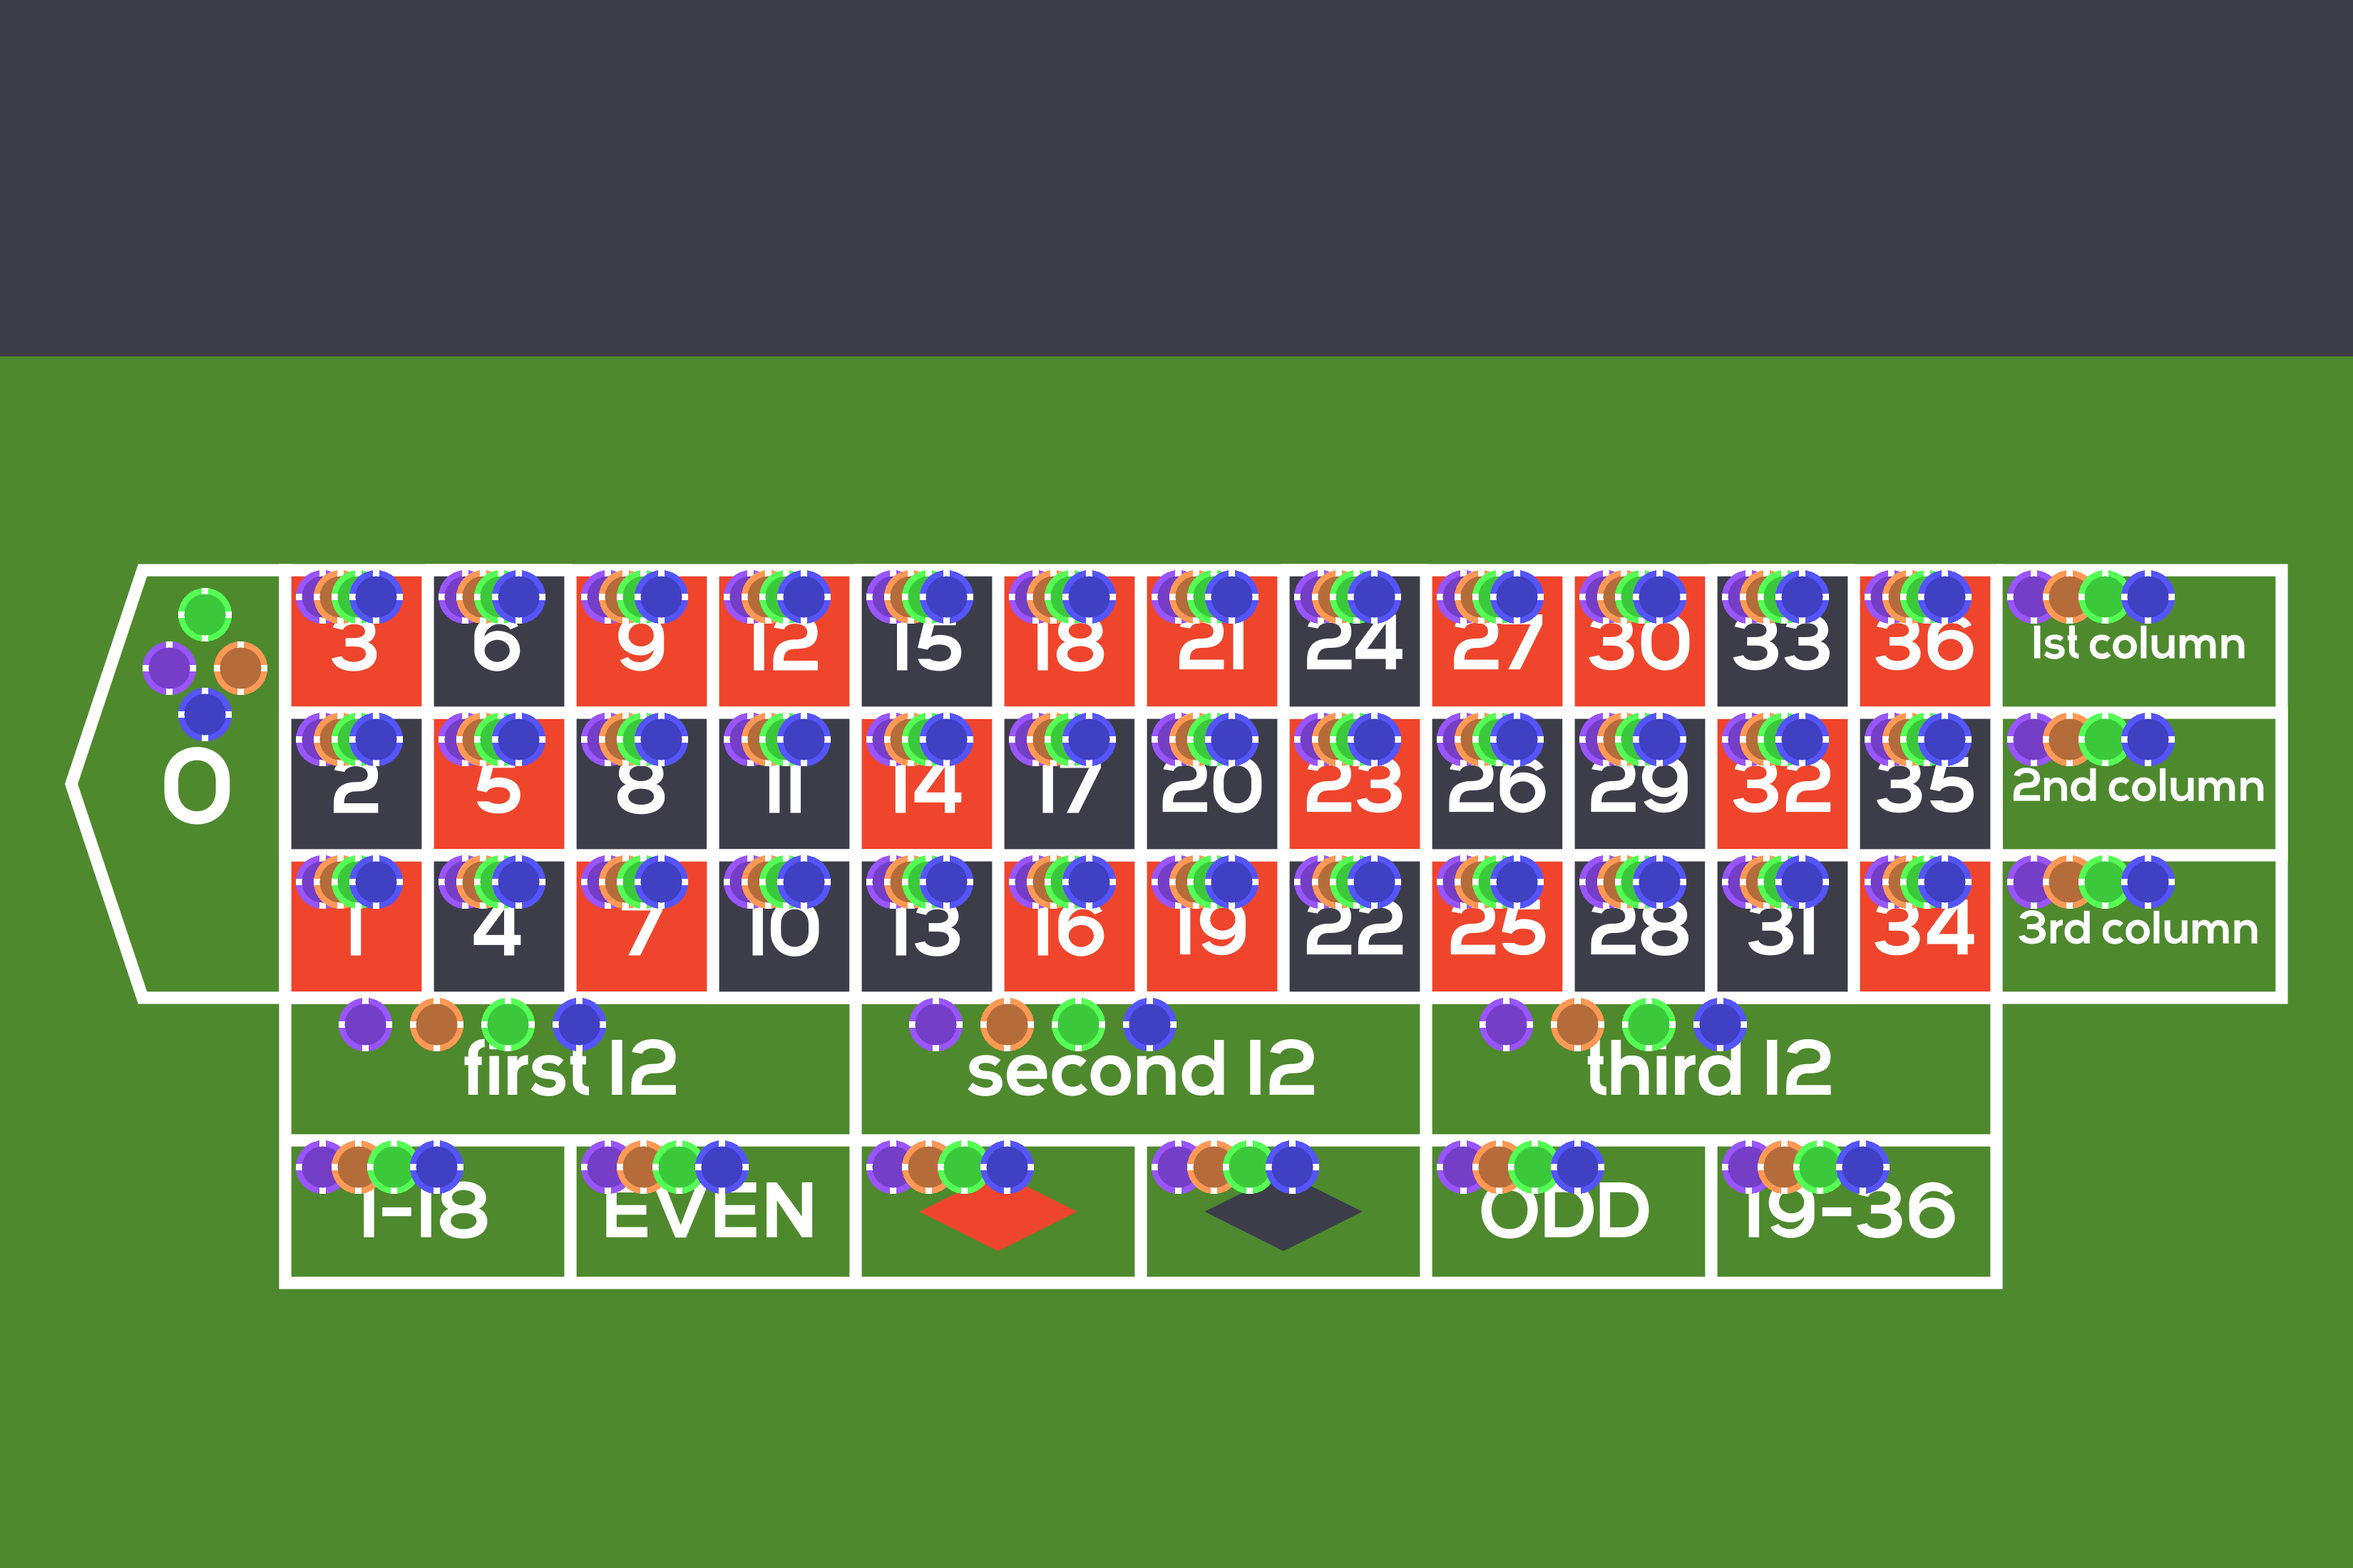
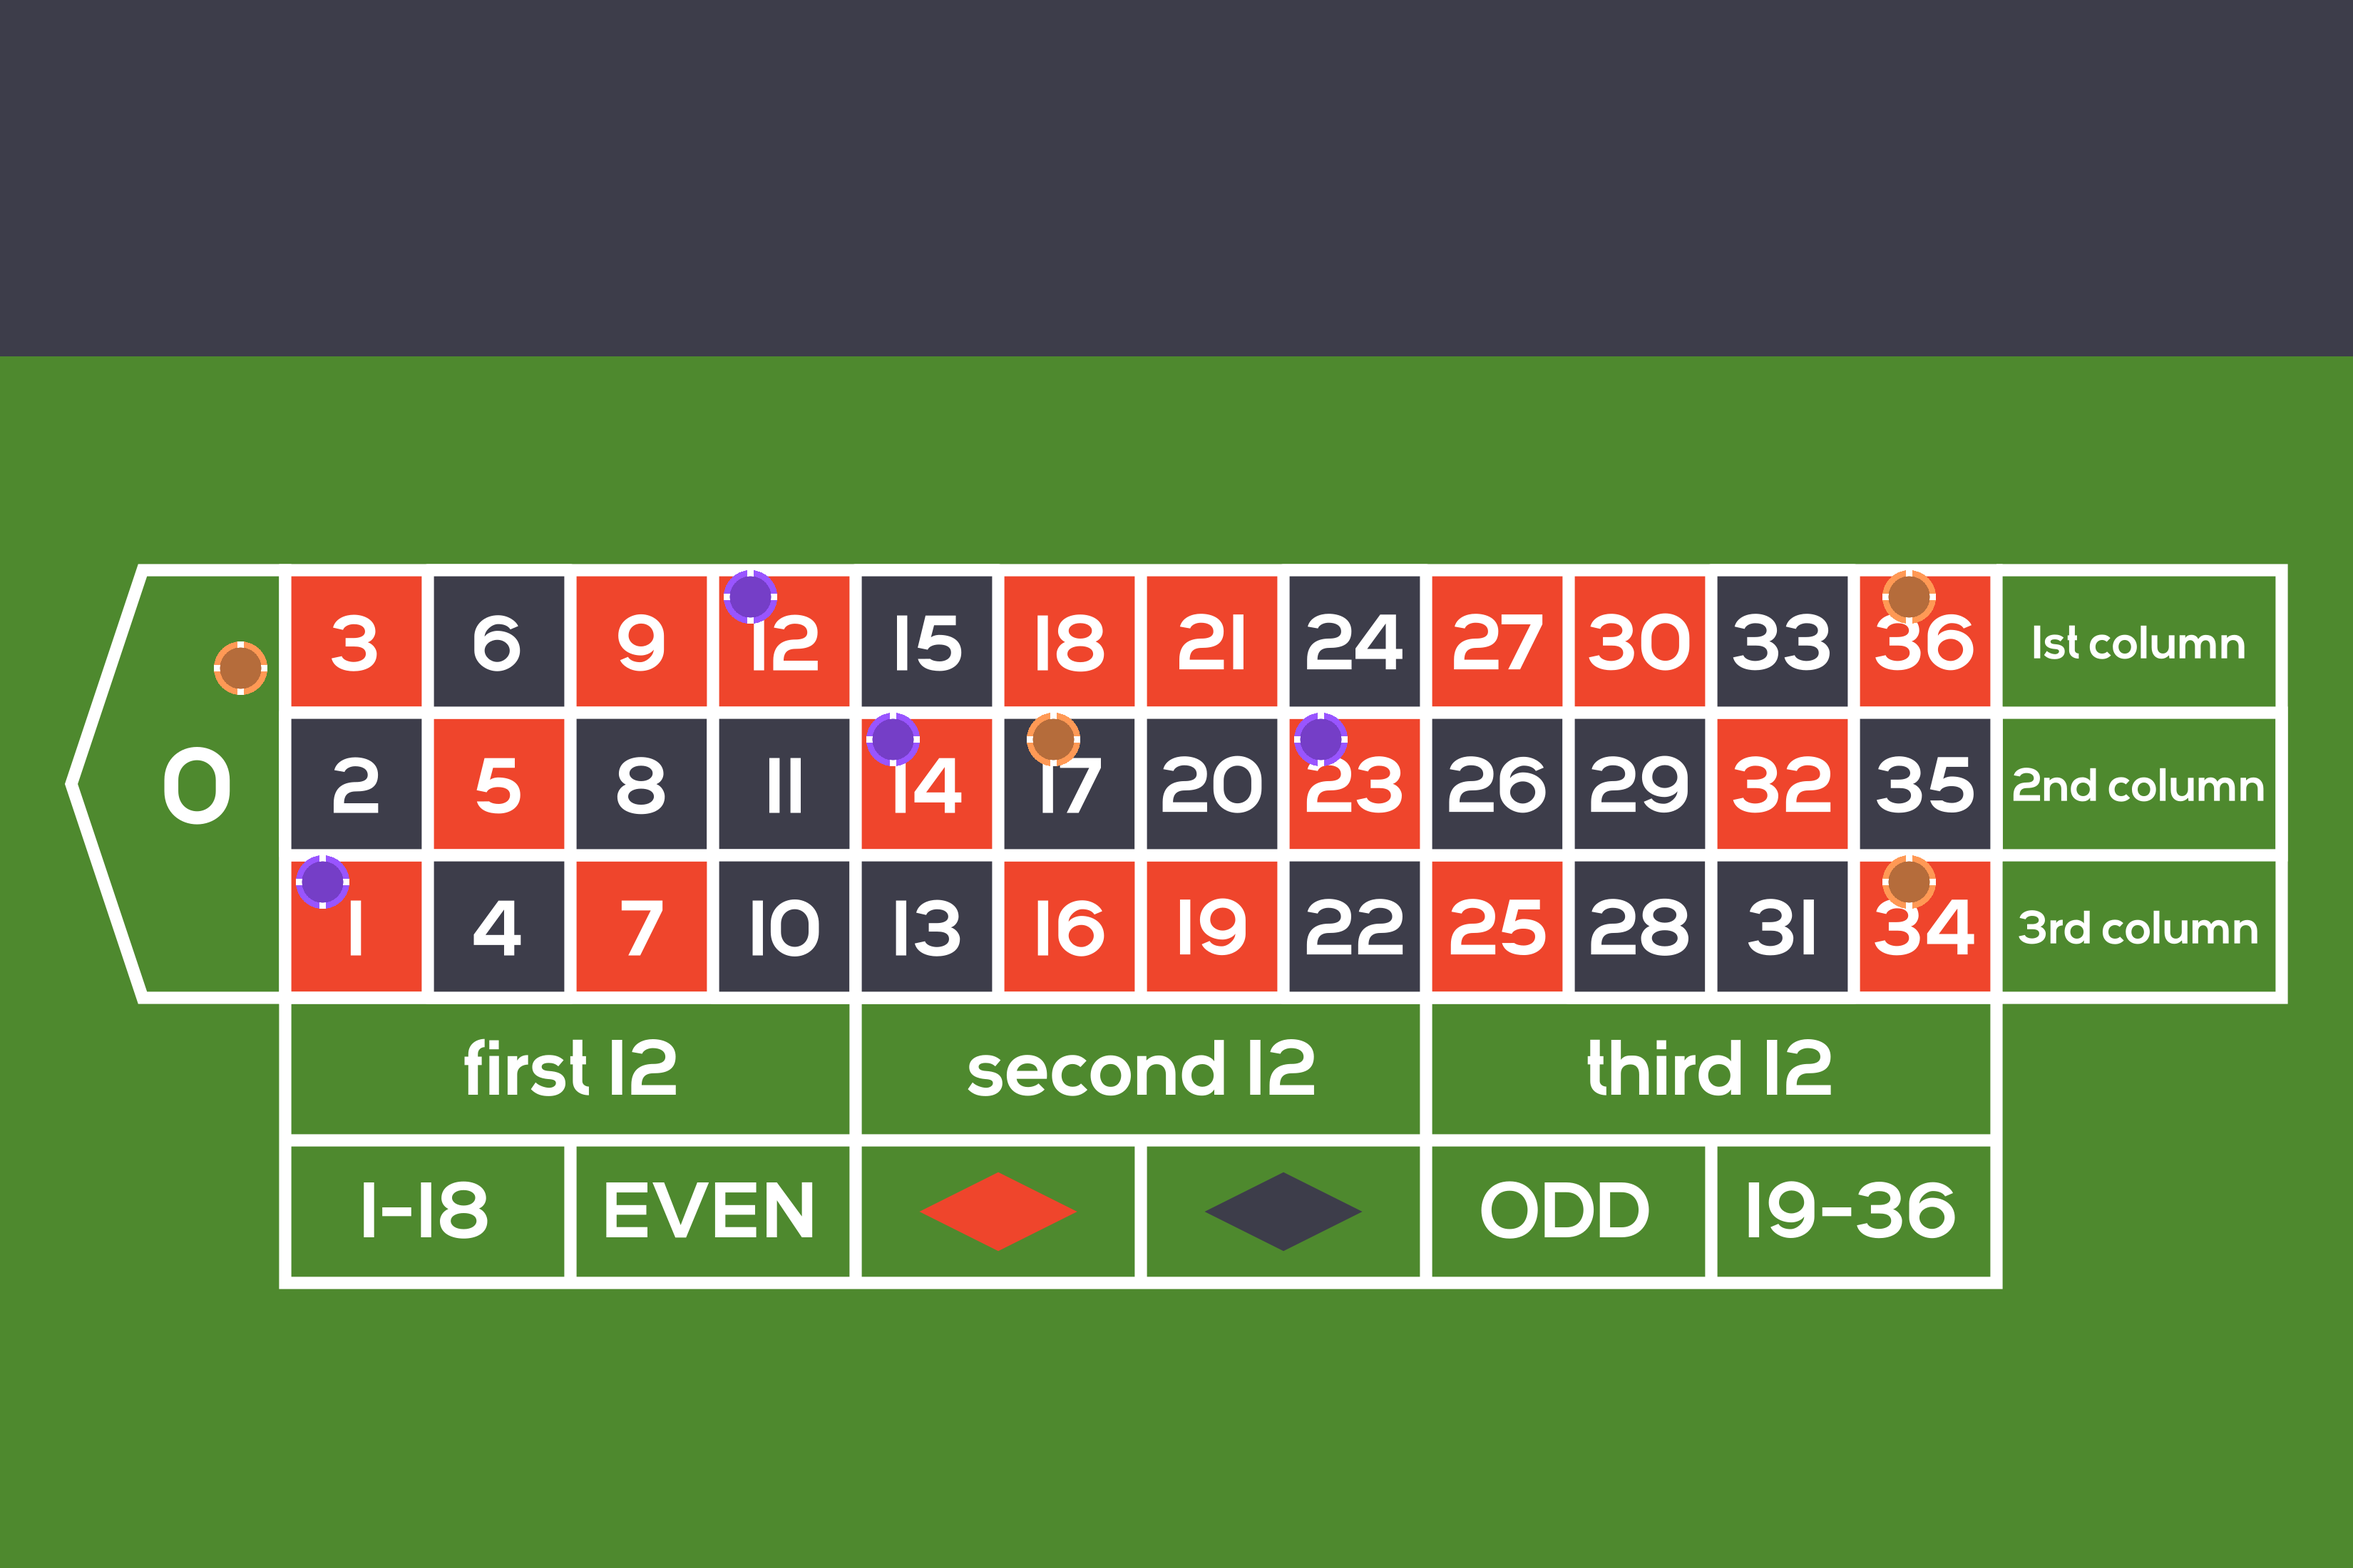
Started with Chat Input for Chip Selection

diff --git a/src/net/statifybot/croupier/game/rounds/Round.java b/src/net/statifybot/croupier/game/rounds/Round.java
@@ -11,6 +11,7 @@ import com.google.common.collect.ArrayListMultimap;
 import com.google.common.collect.Multimap;
 import com.mongodb.client.MongoCollection;
 import com.mongodb.client.model.Filters;
+import com.mongodb.client.model.Updates;
 
 import net.dv8tion.jda.api.EmbedBuilder;
 import net.dv8tion.jda.api.Permission;
@@ -24,6 +25,7 @@ import net.statifybot.croupier.Croupier;
 import net.statifybot.croupier.data.MongoDBHandler;
 import net.statifybot.croupier.game.Game;
 import net.statifybot.croupier.game.rounds.bets.SelectionFormatter;
+import net.statifybot.croupier.game.rounds.bets.SelectionImage;
 import net.statifybot.croupier.utility.Emote;
 
 public class Round {
@@ -58,119 +60,6 @@ public class Round {
 						this.round = channel;
 
 						this.map = ArrayListMultimap.create();
-						for(int i = 0; i<=36; i++) {
-							this.map.put(12l, String.valueOf(i));
-							this.map.put(13l, String.valueOf(i));
-							this.map.put(14l, String.valueOf(i));
-							this.map.put(15l, String.valueOf(i));
-							this.map.put(16l, String.valueOf(i));
-							this.map.put(17l, String.valueOf(i));
-							this.map.put(18l, String.valueOf(i));
-							this.map.put(19l, String.valueOf(i));
-						}
-						this.map.put(12l, "red");
-						this.map.put(12l, "black");
-						this.map.put(12l, "even");
-						this.map.put(12l, "odd");
-						this.map.put(12l, "first 12");
-						this.map.put(12l, "second 12");
-						this.map.put(12l, "third 12");
-						this.map.put(12l, "1-18");
-						this.map.put(12l, "19-36");
-						this.map.put(12l, "1st column");
-						this.map.put(12l, "2nd column");
-						this.map.put(12l, "3rd column");
-						
-						this.map.put(13l, "red");
-						this.map.put(13l, "black");
-						this.map.put(13l, "even");
-						this.map.put(13l, "odd");
-						this.map.put(13l, "first 12");
-						this.map.put(13l, "second 12");
-						this.map.put(13l, "third 12");
-						this.map.put(13l, "1-18");
-						this.map.put(13l, "19-36");
-						this.map.put(13l, "1st column");
-						this.map.put(13l, "2nd column");
-						this.map.put(13l, "3rd column");
-						
-						this.map.put(14l, "red");
-						this.map.put(14l, "black");
-						this.map.put(14l, "even");
-						this.map.put(14l, "odd");
-						this.map.put(14l, "first 12");
-						this.map.put(14l, "second 12");
-						this.map.put(14l, "third 12");
-						this.map.put(14l, "1-18");
-						this.map.put(14l, "19-36");
-						this.map.put(14l, "1st column");
-						this.map.put(14l, "2nd column");
-						this.map.put(14l, "3rd column");
-					
-						this.map.put(15l, "red");
-						this.map.put(15l, "black");
-						this.map.put(15l, "even");
-						this.map.put(15l, "odd");
-						this.map.put(15l, "first 12");
-						this.map.put(15l, "second 12");
-						this.map.put(15l, "third 12");
-						this.map.put(15l, "1-18");
-						this.map.put(15l, "19-36");
-						this.map.put(15l, "1st column");
-						this.map.put(15l, "2nd column");
-						this.map.put(15l, "3rd column");
-						
-						this.map.put(16l, "red");
-						this.map.put(16l, "black");
-						this.map.put(16l, "even");
-						this.map.put(16l, "odd");
-						this.map.put(16l, "first 12");
-						this.map.put(16l, "second 12");
-						this.map.put(16l, "third 12");
-						this.map.put(16l, "1-18");
-						this.map.put(16l, "19-36");
-						this.map.put(16l, "1st column");
-						this.map.put(16l, "2nd column");
-						this.map.put(16l, "3rd column");
-						
-						this.map.put(17l, "red");
-						this.map.put(17l, "black");
-						this.map.put(17l, "even");
-						this.map.put(17l, "odd");
-						this.map.put(17l, "first 12");
-						this.map.put(17l, "second 12");
-						this.map.put(17l, "third 12");
-						this.map.put(17l, "1-18");
-						this.map.put(17l, "19-36");
-						this.map.put(17l, "1st column");
-						this.map.put(17l, "2nd column");
-						this.map.put(17l, "3rd column");
-						
-						this.map.put(18l, "red");
-						this.map.put(18l, "black");
-						this.map.put(18l, "even");
-						this.map.put(18l, "odd");
-						this.map.put(18l, "first 12");
-						this.map.put(18l, "second 12");
-						this.map.put(18l, "third 12");
-						this.map.put(18l, "1-18");
-						this.map.put(18l, "19-36");
-						this.map.put(18l, "1st column");
-						this.map.put(18l, "2nd column");
-						this.map.put(18l, "3rd column");
-						
-						this.map.put(19l, "red");
-						this.map.put(19l, "black");
-						this.map.put(19l, "even");
-						this.map.put(19l, "odd");
-						this.map.put(19l, "first 12");
-						this.map.put(19l, "second 12");
-						this.map.put(19l, "third 12");
-						this.map.put(19l, "1-18");
-						this.map.put(19l, "19-36");
-						this.map.put(19l, "1st column");
-						this.map.put(19l, "2nd column");
-						this.map.put(19l, "3rd column");
 
 						SelectionFormatter formatter = new SelectionFormatter(this.map);
 
@@ -244,9 +133,51 @@ public class Round {
 			this.game.getChannel().editMessageById(this.game.getMessageId(), msg.build()).queue();
 		});
 	}
-	
+
 	public Multimap<Long, String> getBetMap() {
 		return this.map;
+	}
+
+	public void addBet(long memberid, String field) {
+		this.map.put(memberid, field);
+
+		MongoCollection<Document> collection = MongoDBHandler.getDatabase().getCollection("rounds");
+		SelectionFormatter formatter = new SelectionFormatter(this.map);
+		collection.updateOne(Filters.eq("messageid", this.messageId), Updates.set("selection", formatter.getAsText()));
+
+		this.round.deleteMessageById(this.messageId).queue();
+
+		new SelectionImage(this).renderImage();
+
+		EmbedBuilder msg = new EmbedBuilder();
+		msg.setTitle("🎲Rouelette Round💸");
+		msg.setDescription(
+				"Write the text of the field you want to select in the Chat.\n*Example:* `1/Odd/Even/1-18/second 12/1st column`");
+		msg.addField("", "React with " + new Emote("leave").getMention() + " to leave the Round", false);
+		msg.setColor(0x33cc33);
+		msg.setImage("attachment://drawedfield.png");
+		msg.setFooter("© Croupier Discord Bot " + Croupier.year, Croupier.icon);
+		File outputfile = new File("resources/drawedfield.png");
+
+		this.round.sendFile(outputfile, "drawedfield.png").embed(msg.build()).queue(message -> {
+
+			setMessageId(message.getIdLong());
+			message.addReaction(new Emote("leave").getEmote()).queue();
+		});
+	}
+
+	public TextChannel getChannel() {
+		return this.round;
+	}
+
+	public long getMessageId() {
+		return this.messageId;
+	}
+
+	public void setMessageId(long messageId) {
+		this.messageId = messageId;
+		MongoCollection<Document> collection = MongoDBHandler.getDatabase().getCollection("rounds");
+		collection.updateOne(Filters.eq("channelid", this.round.getIdLong()), Updates.set("messageid", this.messageId));
 	}
 
 }

diff --git a/src/net/statifybot/croupier/game/rounds/bets/SelectionListener.java b/src/net/statifybot/croupier/game/rounds/bets/SelectionListener.java
@@ -1,0 +1,62 @@
+package net.statifybot.croupier.game.rounds.bets;
+
+import java.util.concurrent.TimeUnit;
+
+import org.bson.Document;
+
+import com.mongodb.client.MongoCollection;
+import com.mongodb.client.model.Filters;
+
+import net.dv8tion.jda.api.EmbedBuilder;
+import net.dv8tion.jda.api.events.message.guild.GuildMessageReceivedEvent;
+import net.dv8tion.jda.api.hooks.ListenerAdapter;
+import net.statifybot.croupier.Croupier;
+import net.statifybot.croupier.data.MongoDBHandler;
+import net.statifybot.croupier.game.Game;
+import net.statifybot.croupier.game.rounds.Round;
+import net.statifybot.croupier.game.rounds.Step;
+
+public class SelectionListener extends ListenerAdapter {
+
+	public void onGuildMessageReceived(GuildMessageReceivedEvent e) {
+
+		MongoCollection<Document> collection = MongoDBHandler.getDatabase().getCollection("rounds");
+		Document doc = collection.find(Filters.eq("channelid", e.getChannel().getIdLong())).first();
+
+		if (doc != null) {
+
+			if (Step.valueOf(doc.getString("step")).equals(Step.CHOOSING)) {
+				Round round = new Round(new Game(e.getGuild()));
+
+				try {
+
+					int num = Integer.valueOf(e.getMessage().getContentRaw().trim());
+
+					if (num <= 36 && num >= 0) {
+
+						round.addBet(e.getMember().getIdLong(), String.valueOf(num));
+
+						e.getMessage().delete().queue();
+						
+						EmbedBuilder msg = new EmbedBuilder();
+						msg.setTitle("Your bet has been set");
+						msg.setColor(0x33cc33);
+						msg.setFooter("© Croupier Discord Bot " + Croupier.year, Croupier.icon);
+						round.getChannel().sendMessage(msg.build()).append(e.getMember().getAsMention()).queue(message -> {
+							message.delete().queueAfter(5, TimeUnit.SECONDS);
+							
+						});
+						;
+					}
+
+				} catch (NumberFormatException ex) {
+
+				}
+
+			}
+
+		}
+
+	}
+
+}

diff --git a/src/net/statifybot/croupier/Croupier.java b/src/net/statifybot/croupier/Croupier.java
@@ -23,6 +23,7 @@ import net.statifybot.croupier.game.deletion.ChannelDeleteListener;
 import net.statifybot.croupier.game.deletion.MessageDeleteListener;
 import net.statifybot.croupier.game.rounds.RoundJoinListener;
 import net.statifybot.croupier.game.rounds.RoundLeaveListener;
+import net.statifybot.croupier.game.rounds.bets.SelectionListener;
 import net.statifybot.croupier.general.HelpCommand;
 import net.statifybot.croupier.general.InfoCommand;
 import net.statifybot.croupier.general.InviteCommand;
@@ -89,6 +90,7 @@ public class Croupier {
 		
 		builder.addEventListeners(new RoundJoinListener());
 		builder.addEventListeners(new RoundLeaveListener());
+		builder.addEventListeners(new SelectionListener());
 		
 		jda = builder.build();
 		System.out.println("The Bot is now Online!");

diff --git a/src/net/statifybot/croupier/game/rounds/bets/SelectionFormatter.java b/src/net/statifybot/croupier/game/rounds/bets/SelectionFormatter.java
@@ -26,10 +26,11 @@ public class SelectionFormatter {
 		this.map = ArrayListMultimap.create();
 
 		String[] args = this.text.split(";");
-
-		for (int i = 0; i < args.length; i++) {
-			String[] splitter = args[i].split("_");
-			this.map.put(Long.valueOf(splitter[0]), splitter[1]);
+		if (!text.equals("")) {
+			for (int i = 0; i < args.length; i++) {
+				String[] splitter = args[i].split("_");
+				this.map.put(Long.valueOf(splitter[0]), splitter[1]);
+			}
 		}
 
 	}
